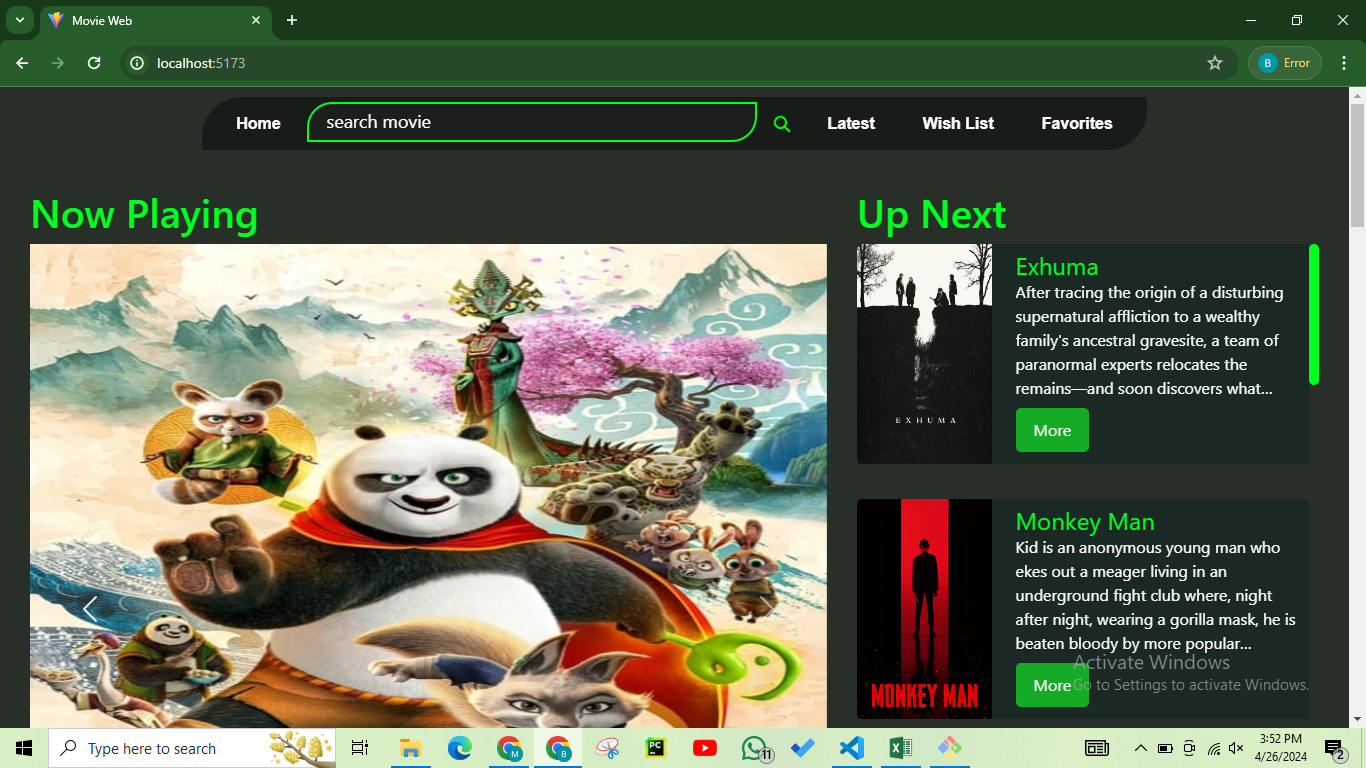
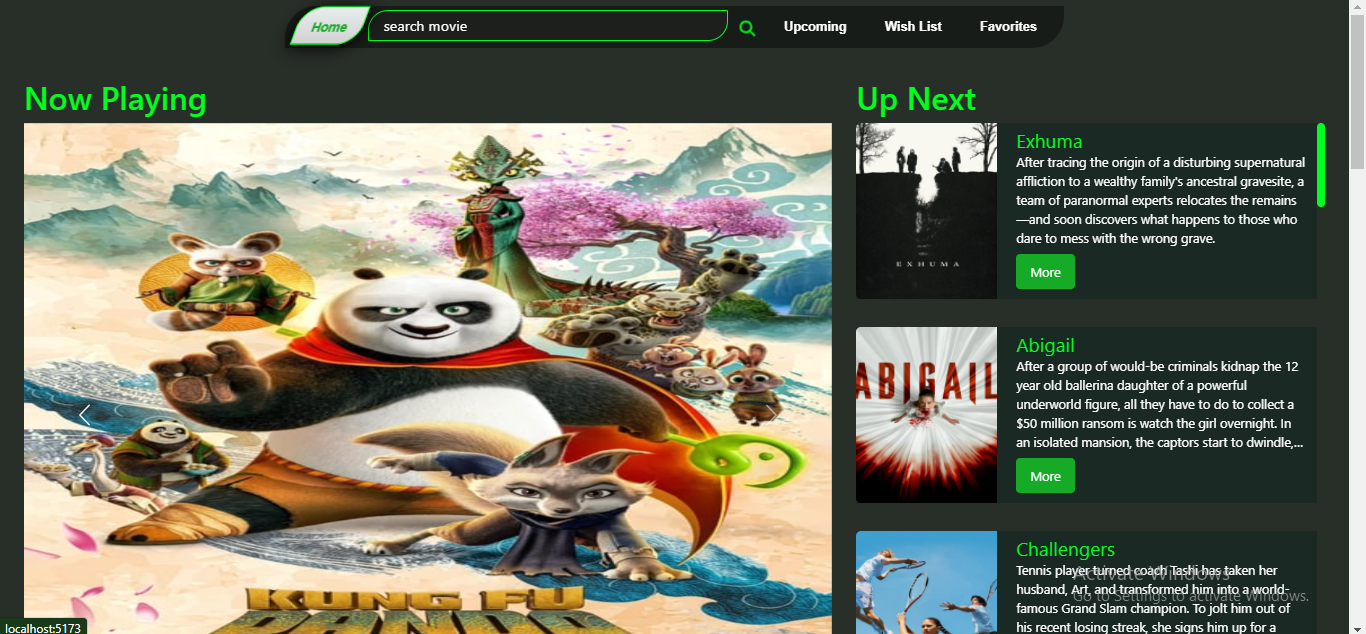
added collage and better images of proj

diff --git a/README.md b/README.md
@@ -32,9 +32,6 @@ It shows you the latest movies of the market, top rated movies of all times, and
 
 ## Visuals
 Following are some of the screenshots of the project:
-<div>
-    <img src="/src/assets/project_visual.png" alt="Project Visual" width="100%">
-</div>
 
 ## Setup and Installation
 
